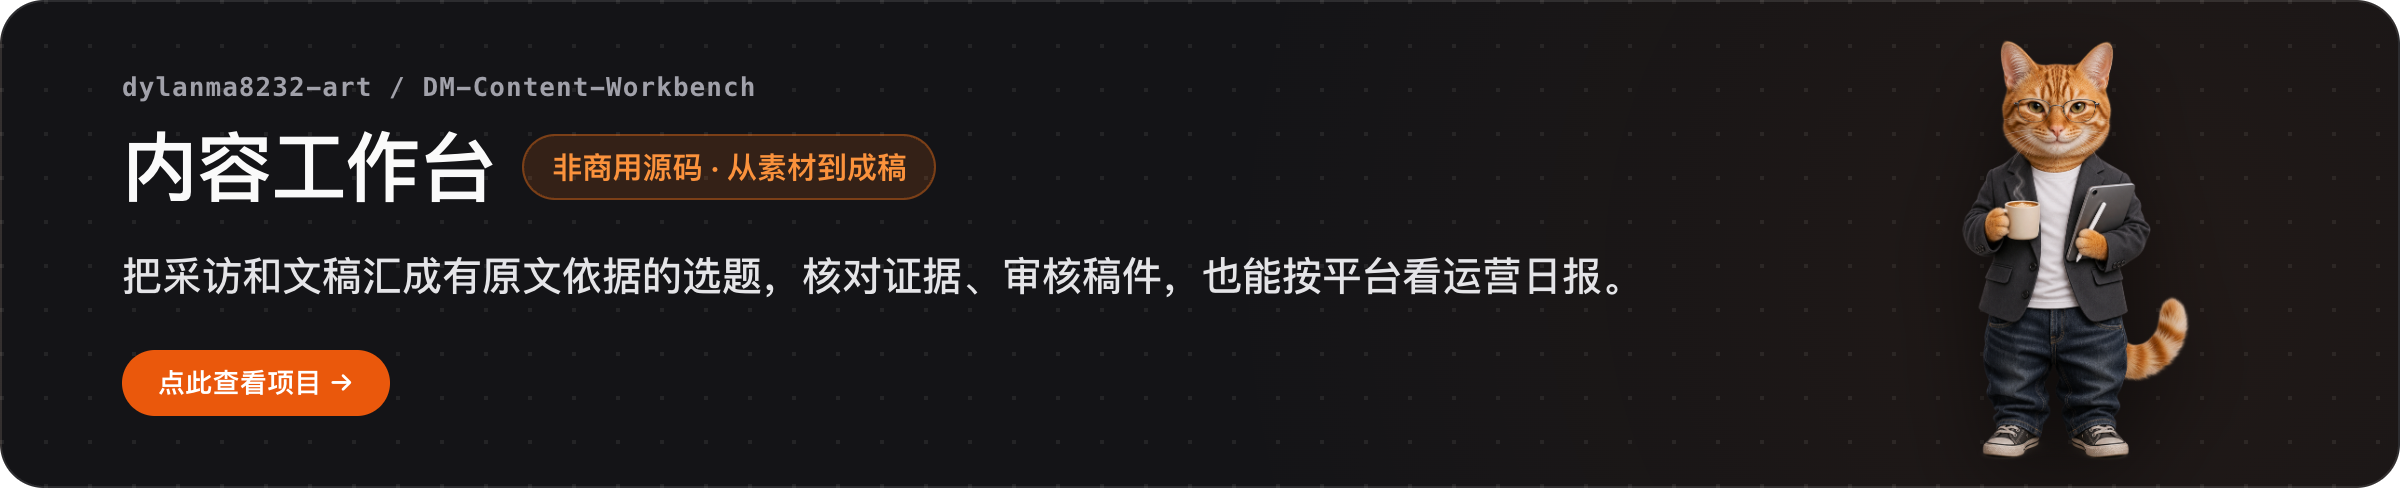
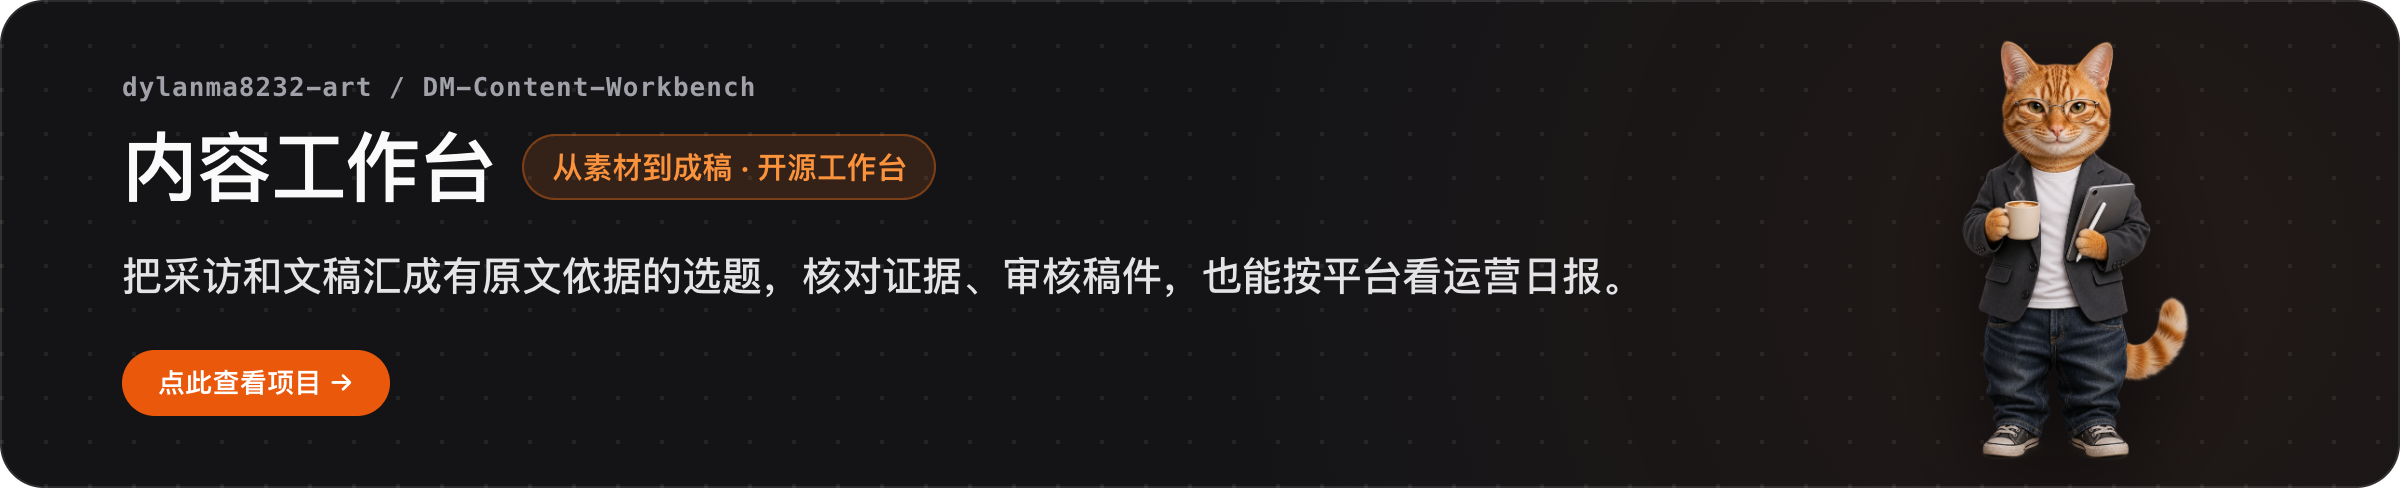
List Content Workbench among open source projects

Changed region(s): [[0.2188, 0.3074, 0.375, 0.3689]]

diff --git a/README.md b/README.md
@@ -27,10 +27,6 @@
   <a href="https://github.com/dylanma8232-art/DM-FH5-Telemetry#gh-dark-mode-only"><img alt="《地平线 5》智能遥测平台 — 跑一圈自动录制赛道并生成语音路书，支持逐弯遥测复盘、实跑数据 AI 调车与副屏领航。" src="assets/cards/card-fh5-telemetry-dark.png#gh-dark-mode-only" width="100%"></a>
 </p>
 
----
-
-## 非商业用途源码项目
-
 <p>
   <a href="https://github.com/dylanma8232-art/DM-Content-Workbench#gh-light-mode-only"><img alt="内容工作台 · 从素材原文到审核稿件" src="assets/cards/card-content-workbench-light.png#gh-light-mode-only" width="100%"></a>
   <a href="https://github.com/dylanma8232-art/DM-Content-Workbench#gh-dark-mode-only"><img alt="内容工作台 · 从素材原文到审核稿件" src="assets/cards/card-content-workbench-dark.png#gh-dark-mode-only" width="100%"></a>
